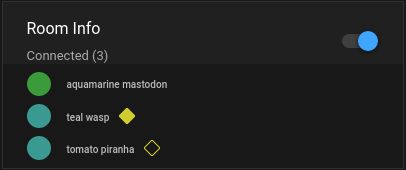
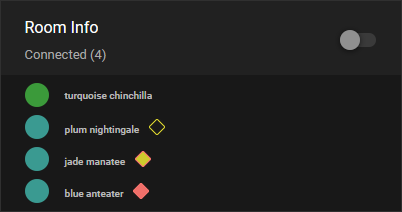
fix Tandashi/YTSync-Plugin#5
feat: add permissions

diff --git a/src/player.ts b/src/player.ts
@@ -10,7 +10,7 @@ import Client from './model/client';
 import Store from './util/store';
 import SyncSocket from './model/sync-socket';
 
-import { STORAGE_SESSION_ID, QUEUE_CONTAINER_SELECTOR, ROOM_INFO_CONTAINER_SELECTOR, REACTIONS_CONTAINER_SELECTOR, Reactions, ReactionsMap, getReactionId, AUTOPLAY_TOGGLE_ID, REACTION_TOGGLE_ID, BADGE_PROMOTE_ID, BADGE_UNPROMOTE_ID } from './util/consts';
+import { STORAGE_SESSION_ID, QUEUE_CONTAINER_SELECTOR, ROOM_INFO_CONTAINER_SELECTOR, REACTIONS_CONTAINER_SELECTOR, Reactions, ReactionsMap, getReactionId, AUTOPLAY_TOGGLE_ID, REACTION_TOGGLE_ID, BADGE_MEMBER_ID, BADGE_MODERATOR_ID, BADGE_SUB_HOST_ID } from './util/consts';
 
 declare global {
   interface Window {
@@ -530,7 +530,7 @@ export default class Player {
   /**
    * Add clients visually.
    *
-   * @param clients The clients to add
+   * @param client The clients to add
    */
   private addClient(client: Client): void {
     const socketIds = this.clients.map(c => c.socketId);
@@ -540,19 +540,27 @@ export default class Player {
 
     const badges = [];
     switch (client.role) {
-      case Role.PROMOTED:
+      case Role.MEMBER:
         badges.push({
-          id: BADGE_UNPROMOTE_ID,
+          id: BADGE_MEMBER_ID,
           onClick: () => {
-            this.ws.sendWsUnpromoteMessage(client);
+            this.ws.sendWsRoleUpdateMessage(client, Role.MODERATOR);
           }
         });
         break;
-      case Role.MEMBER:
+      case Role.MODERATOR:
         badges.push({
-          id: BADGE_PROMOTE_ID,
+          id: BADGE_MODERATOR_ID,
           onClick: () => {
-            this.ws.sendWsPromoteMessage(client);
+            this.ws.sendWsRoleUpdateMessage(client, Role.SUB_HOST);
+          }
+        });
+        break;
+      case Role.SUB_HOST:
+        badges.push({
+          id: BADGE_SUB_HOST_ID,
+          onClick: () => {
+            this.ws.sendWsRoleUpdateMessage(client, Role.MEMBER);
           }
         });
         break;

diff --git a/src/model/sync-socket.ts b/src/model/sync-socket.ts
@@ -1,5 +1,6 @@
-import { Message } from '../enum/message';
+import {Message} from '../enum/message';
 import Client from '../model/client';
+import {Role} from "../enum/role";
 
 export default class SyncSocket {
   public socket: SocketIOClient.Socket;
@@ -81,22 +82,27 @@ export default class SyncSocket {
   }
 
   /**
-   * Promote the given client.
+   * Send role update.
    * Will only work if the client has the needed Permissions.
    *
-   * @param client The client that should be promoted
+   * @param client The client that should be updated
+   * @param role The role the client should be set to
    */
-  public sendWsPromoteMessage(client: Client): void {
-    this.sendWsMessage(Message.PROMOTE, client.socketId);
-  }
-
-  /**
-   * Unpromote the given client.
-   * Will only work if the client has the needed Permissions.
-   *
-   * @param client The client that should be unpromoted
-   */
-  public sendWsUnpromoteMessage(client: Client): void {
-    this.sendWsMessage(Message.UNPROMOTE, client.socketId);
+  public sendWsRoleUpdateMessage(client: Client, role: Role): void {
+    let messageType: Message;
+    switch (role) {
+      case Role.MEMBER:
+        messageType = Message.SET_ROLE_MEMBER;
+        break;
+      case Role.MODERATOR:
+        messageType = Message.SET_ROLE_MODERATOR;
+        break;
+      case Role.SUB_HOST:
+        messageType = Message.SET_ROLE_SUB_HOST;
+        break;
+      default:
+        throw new TypeError('No such role');
+    }
+    this.sendWsMessage(messageType, client.socketId);
   }
 }

diff --git a/src/util/consts.ts b/src/util/consts.ts
@@ -23,8 +23,9 @@ export const YT_VIDEO_TITLE_SELECTOR = 'ytd-video-primary-info-renderer h1 yt-fo
 export const YT_VIDEO_BYLINE_SELECTOR = 'ytd-channel-name a';
 
 // The Badge ids are the ids on the server for the badge images
-export const BADGE_PROMOTE_ID = 'promote';
-export const BADGE_UNPROMOTE_ID = 'unpromote';
+export const BADGE_MEMBER_ID = 'member';
+export const BADGE_MODERATOR_ID = 'moderator';
+export const BADGE_SUB_HOST_ID = 'sub-host';
 
 export const BUTTON_INJECT_CONTAINER_SELECTOR = 'div#primary > div#primary-inner > div#info > div#info-contents > ytd-video-primary-info-renderer > div#container > div#info ytd-menu-renderer div#top-level-buttons';
 export const QUEUE_CONTAINER_SELECTOR = 'div#secondary #playlist';

diff --git a/webpack/webpack.base.js b/webpack/webpack.base.js
@@ -5,11 +5,13 @@ const webpack = require('webpack');
 // required for pretty format for the Userscript banner
 const stripIndent = require('common-tags').stripIndent
 
+const packageJSON = require('../package.json')
+
 const BANNER = stripIndent`
     // ==UserScript==
     // @name         YT Sync
     // @namespace    https://tandashi.de
-    // @version      1.6.1
+    // @version      ${packageJSON.version}
     // @description  Sync Youtube Videos directly on Youtube :)
     // @author       Tandashi
     //

diff --git a/src/enum/message.ts b/src/enum/message.ts
@@ -10,7 +10,8 @@ export enum Message {
   CLIENTS = 'clients',
   CLIENT_CONNECT = 'client-connect',
   CLIENT_DISCONNECT = 'client-disconnect',
-  PROMOTE = 'promote',
-  UNPROMOTE = 'unpromote',
+  SET_ROLE_MEMBER = 'set-role-member',
+  SET_ROLE_MODERATOR = 'set-role-moderator',
+  SET_ROLE_SUB_HOST = 'set-role-sub-host',
   REACTION = 'reaction'
 }

diff --git a/src/enum/role.ts b/src/enum/role.ts
@@ -1,5 +1,6 @@
 export enum Role {
   HOST = 'host',
-  PROMOTED = 'promoted',
+  SUB_HOST = 'sub-host',
+  MODERATOR = 'moderator',
   MEMBER = 'member'
 }

diff --git a/README.md b/README.md
@@ -131,8 +131,9 @@ The room information is displayed on the right side below the video queue. It di
 From top to bottom:
 
 1. The room [host](#host). He has a green circle.
-2. A [promoted](#promoted) person. He has a blue circle like a normal person but he has the yellow square.
-3. A [normal](#member) person. He has a blue circle but not the yellow square.
+2. A [normal](#member) person. He has a blue circle, and a yellow square outline as badge
+3. A [moderator](#moderator) person. He has a yellow circle, and a yellow square with red outlines
+4. A [sub-host](#sub-host) person. He has a red circle, and a red square.
 
 ## Reactions
 
@@ -146,21 +147,28 @@ You will automatically be assigned to the Host role when you create a sync room.
 
 **What you are able to do**:
 
-- Resume / Pause the video
-- Advance time in the video
-- Un-/Promote a user
-- Everything the 'Promoted' Role is able to do
+- Change a users role
+- Everything the 'sub-host' Role is able to do
 
-### Promoted
+### Sub-host
 
-You can only get this role if the Host assigned it to you.
+You can only get this role if the Host assigned it to you by clicking on badge with the yellow square and red outlines.
 
 **What you are able to do**:
+
+- Resume / Pause the video
+- Change the time in the video
+- Everything the 'moderator' role is able to do
+
+### Moderator
+
+You can only get this role if the Host assigned it to you by clicking on badge with the yellow square outlines.
 
 - Add videos to the queue
 - Remove videos from the queue
 - Play a video from the queue
 - Change the autoplay setting
+- Everything the 'member' role is able to do
 
 ### Member
 
